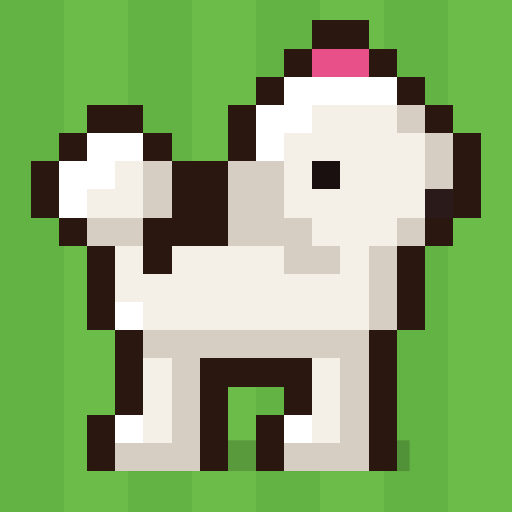
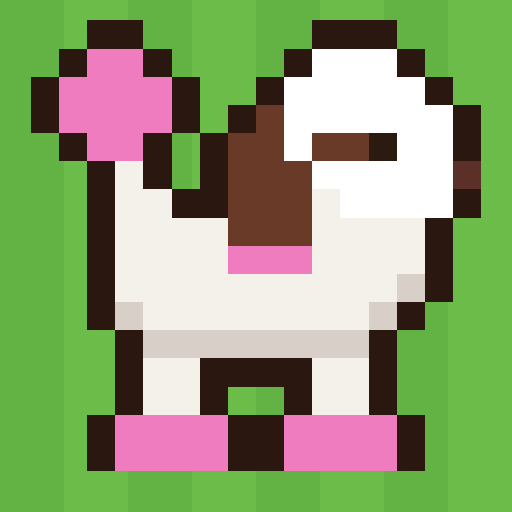
Add real pet photos and redraw sprites from them
- Petdex and dialogue portraits for Princess, Stanley, Poppy and Salami
  from the owners' photos (cropped and compressed)
- Sprites redrawn to match: Princess white with brown ears and pink
  dyed tail and paws, Poppy black with white blaze and grey muzzle,
  Stanley salt-and-pepper with white beard and legs, Salami a brown
  tabby with ginger tones and green eyes

Claude-Session: https://claude.ai/code/session_01DnnTkZ6CkLjoKVG4hpARyX

diff --git a/src/art/sprites.js b/src/art/sprites.js
@@ -19,39 +19,39 @@ function stride(rows, n = 4) {
 
 const poodle = [
   '................',
-  '..........rr....',
-  '.........wwww...',
-  '........wwaaab..',
-  '..ww....waaaaab.',
-  '.wwab..bbaeaaab.',
-  '.waab..bbaaaaan.',
-  '..bb...bbbaaab..',
-  '...a.aaaabbab...',
-  '...aaaaaaaaab...',
-  '...waaaaaaaab...',
+  '..pp......www...',
+  '.pppp....wwwww..',
+  '.pppp...cwwwwww.',
+  '..pp...ccwcceww.',
+  '...a...cccwwwwwn',
+  '...aa..cccawwww.',
+  '...aaaacccaaaa..',
+  '...aaaapppaaaa..',
+  '...aaaaaaaaaab..',
+  '...baaaaaaaab...',
   '....bbbbbbbb....',
-  '....ab....ab....',
-  '....ab....ab....',
-  '...wab...wab....',
-  '...bbb...bbb....',
+  '....aa....aa....',
+  '....aa....aa....',
+  '...pppp..pppp...',
+  '...pppp..pppp...',
 ];
 const tabby = [
   '................',
   '..........a...a.',
-  '..a.......aa.aa.',
-  '.ab.......aaaaa.',
-  '.ab......aaeaaa.',
-  '..ab.....aaaaaan',
-  '..ab.....wawwab.',
-  '...ab....aawwa..',
-  '...aaaasasaaab..',
-  '...asasasasaab..',
-  '...aaaaaaaaaab..',
-  '...bsbsbsbsbb...',
-  '....ab....ab....',
-  '....ab....ab....',
-  '....ab....ab....',
-  '....bb....bb....',
+  '.ss.......ap.ap.',
+  '.sa.......aaaaa.',
+  '..sa.....asaasa.',
+  '..as.....aaaeaa.',
+  '...a.....awwwap.',
+  '...as....awwwa..',
+  '...asaaasaaaa...',
+  '...asasasasaac..',
+  '...aaaaaaaaacc..',
+  '....ccccccccc...',
+  '....as....as....',
+  '....as....as....',
+  '....as....as....',
+  '....ss....ss....',
 ];
 const bunny = [
   '.........aa.....',
@@ -73,39 +73,39 @@ const bunny = [
 ];
 const frenchie = [
   '................',
-  '..........a..a..',
-  '.........aaa.aa.',
-  '.........apaapa.',
-  '.........aaaaaa.',
-  '.........aaeaaa.',
-  '.........aaaawwn',
-  '..a......aaaawwb',
-  '..ab...aaaaawwb.',
-  '...aaaaaaaaawwb.',
-  '..aaaaaaaaaawwb.',
-  '..aaaaaaaaaaab..',
-  '..bbbbbbbbbbbb..',
-  '...ab.....ab....',
-  '...ab.....ab....',
-  '...bb.....bb....',
+  '.........a...a..',
+  '........aaa.aaa.',
+  '........apa.apa.',
+  '........aaaaaaa.',
+  '........aaeaaal.',
+  '........aaaaggn.',
+  '...a....aaaaggg.',
+  '...aa.aaaaaaww..',
+  '...aaaaaaaaww...',
+  '..aaaaaaaaaaw...',
+  '..aaaaaaaaaaa...',
+  '..bbbbbbbbbbb...',
+  '...aa....aa.....',
+  '...aa....aa.....',
+  '...gg....gg.....',
 ];
 const schnauzer = [
   '................',
-  '..........aa....',
-  '.........aaab...',
-  '.........wwwaa..',
-  '..a......aeaaaa.',
-  '..ab.....aaaaaan',
-  '...ab....awwwww.',
-  '....aaaaaawwwww.',
-  '...aaaaaaaaawww.',
-  '...aaaaaaaaaab..',
-  '...baaaaaaaaab..',
-  '...wwbbbbbbbww..',
+  '.........dd.....',
+  '..a.....dadd....',
+  '..a.....aaaal...',
+  '..aa....wwwal...',
+  '...a....aeaaaa..',
+  '...a....aaaaaan.',
+  '...aaaaaawwwww..',
+  '...aaaaaawwwwww.',
+  '...aaaaaaawww...',
+  '...lllllllll....',
+  '...wwlllllww....',
   '...ww.....ww....',
   '...ww.....ww....',
   '...ww.....ww....',
-  '...bb.....bb....',
+  '...ww.....ww....',
 ];
 
 export const PET_FRAMES = {

diff --git a/src/data/pets.js b/src/data/pets.js
@@ -20,14 +20,14 @@
 export const PETS = [
   {
     id: 'princess', name: 'Princess', species: 'Toy poodle', type: 'fairy', sprite: 'poodle',
-    pal: { a: '#f4f0e8', b: '#d6cec2', w: '#ffffff', r: '#e8508a' },
+    pal: { a: '#f4f0ea', b: '#d8d0c8', w: '#ffffff', c: '#6a3a28', p: '#f07cc0', n: '#5a3028', e: '#2a1a10' },
     owner: 'Helen and Paddy', region: 'laverton', zone: 'allen', home: [20, 12], range: 3,
     homeSpot: { zone: 'home', x: 19, y: 15 },
     behaviour: 'patrol', patrol: [[17, 9], [24, 10], [25, 14], [20, 16], [15, 14]],
     sleeps: [22 * 60, 26 * 60],
     bio: 'The guardian of Laverton. Sassy, fluffy, and ready to attack.',
     clue: 'Locals talk about a tiny, very fluffy security guard who patrols Allen St. Try right out the front.',
-    funFact: 'Has never once lost a staring contest. Has never once blinked first.',
+    funFact: 'Her pink tail and pink paws are not natural. Her confidence absolutely is.',
     favouriteSpot: 'The exact centre of the Allen St court, where everyone can see her.',
     loves: ['ribbon', 'chicken'], likes: ['cheese', 'croissant'], dislikes: ['lemon', 'tennis'],
     stats: { hp: 55, attack: 72, defence: 45, speed: 80, special: 95 },
@@ -44,7 +44,7 @@ export const PETS = [
   },
   {
     id: 'salami', name: 'Salami', species: 'Tabby cat', type: 'street', sprite: 'tabby',
-    pal: { a: '#c4843e', b: '#8a5a2a', w: '#f0d8b0', s: '#7a4a1a' },
+    pal: { a: '#8a6a42', s: '#3a2a18', c: '#c88a4a', w: '#e8d8b8', e: '#8ab83a', p: '#d89a9a' },
     owner: 'Rose', region: 'brunswick', zone: 'brunswick', home: [17, 14.5], range: 3,
     homeSpot: { zone: 'home', x: 18, y: 3 },
     behaviour: 'stalk', sleeps: [13 * 60, 15 * 60],
@@ -90,7 +90,7 @@ export const PETS = [
   },
   {
     id: 'poppy', name: 'Poppy', species: 'French bulldog', type: 'rock', sprite: 'frenchie',
-    pal: { a: '#2c2b2f', b: '#1a1a1e', w: '#d8d0c8', p: '#a07070', n: '#0a0a0a', e: '#d8b070' },
+    pal: { a: '#26252a', b: '#141418', w: '#f0ece4', g: '#7a7670', p: '#a87878', e: '#7a5030', n: '#0a0a0a', l: '#3a3940' },
     owner: 'Seb and Sinead', region: 'reservoir', zone: 'reservoir', home: [30, 10], range: 4,
     homeSpot: { zone: 'yard', x: 25, y: 9 },
     behaviour: 'zoomies', sleeps: [21 * 60, 26 * 60],
@@ -113,7 +113,7 @@ export const PETS = [
   },
   {
     id: 'stanley', name: 'Stanley', species: 'Mini schnauzer', type: 'psychic', sprite: 'schnauzer',
-    pal: { a: '#7a7d84', b: '#5a5d64', w: '#dcdee1' },
+    pal: { a: '#55585f', l: '#9a9ea6', w: '#e8e6e0', d: '#3a3c42', e: '#2a1a10', n: '#1a1a1a' },
     owner: 'Tim and Nicholas', region: 'reservoir', zone: 'reservoir', home: [10, 25.5], range: 3,
     homeSpot: { zone: 'home', x: 12, y: 16 },
     behaviour: 'aloof', sleeps: [23 * 60, 26 * 60],
